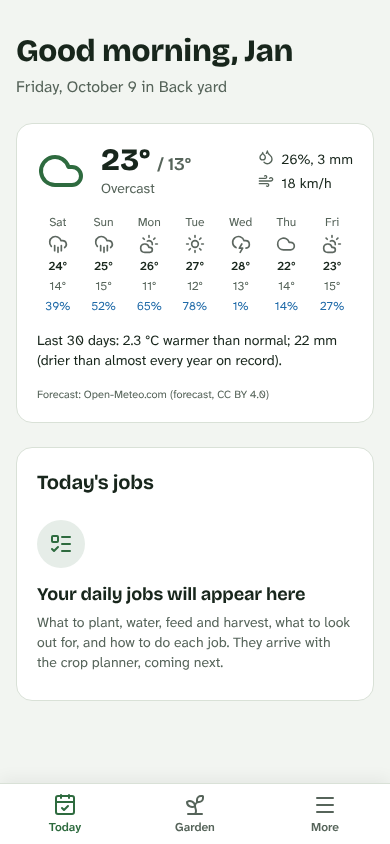
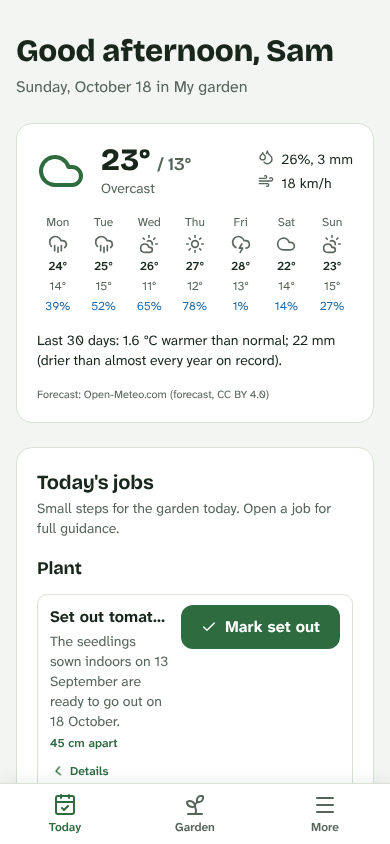
docs: regenerate README screenshots; screenshot script walks the setup wizard
Claude-Session: https://claude.ai/code/session_01UZfdHFqVNPtyQLQo4U3BLL

diff --git a/docs/ACTIVE_CONTEXT.md b/docs/ACTIVE_CONTEXT.md
@@ -41,7 +41,6 @@ Butternut (Cucurbita moschata) in the catalog with cited values.
 - Year plan overlap on accept fixed in 0.45.1. Re-check on the owner's real data after deploy.
 - Owner's Bed 1 showed "6 cells have two plantings at once" (cause unknown: hand painting or an old plan). Ask him to check after updating to 0.40.0 and using Clear plan.
 - Planner look on his phone and the year plan on real climate data are unverified by me.
-- README screenshots in `docs/images/` are old (regenerate with `npm run screenshots`).
 - Owner action: enable "Allow GitHub Actions to create pull requests" so the monthly catalog-refresh workflow can open PRs.
 - Sandbox quirks: `gh` GraphQL is blocked (use `gh run list`, REST); the sandbox proxy resets some connections (retry); `sqlite3` CLI is missing (use python).
 

diff --git a/CHANGELOG.md b/CHANGELOG.md
@@ -5,6 +5,9 @@ The format follows [Keep a Changelog](https://keepachangelog.com/en/1.1.0/) and 
 
 ## [Unreleased]
 
+### Changed
+- README screenshots are regenerated from the current app, and the screenshot script walks through the setup wizard.
+
 ## [0.52.0] - 2026-10-18
 
 ### Changed
